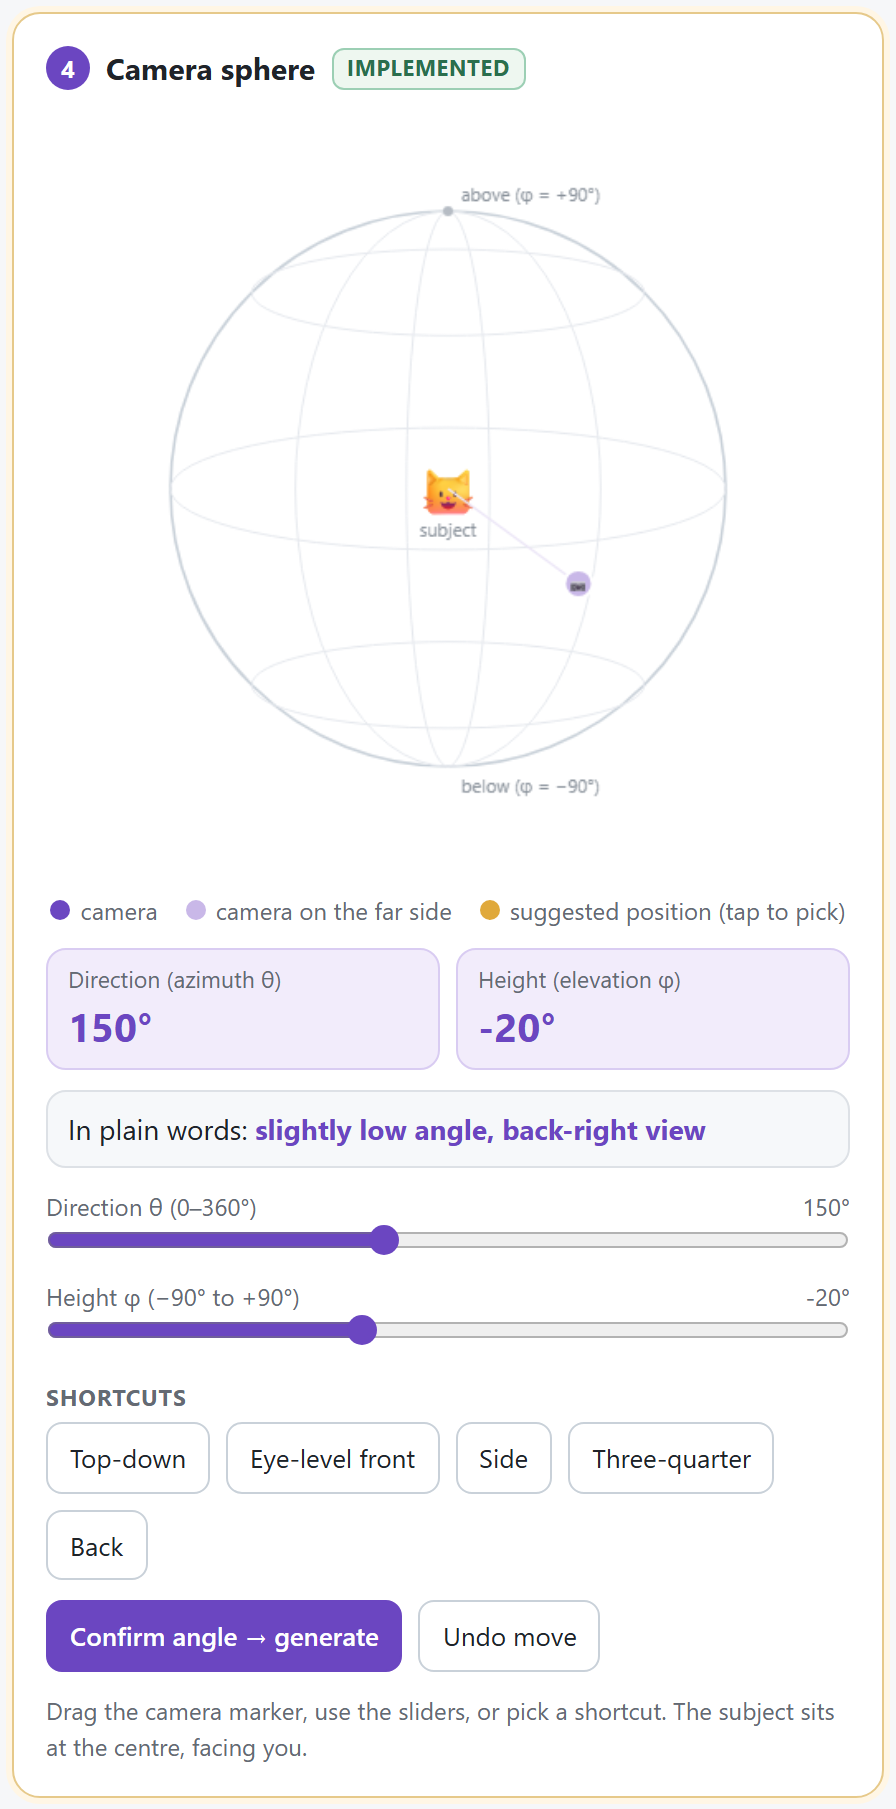
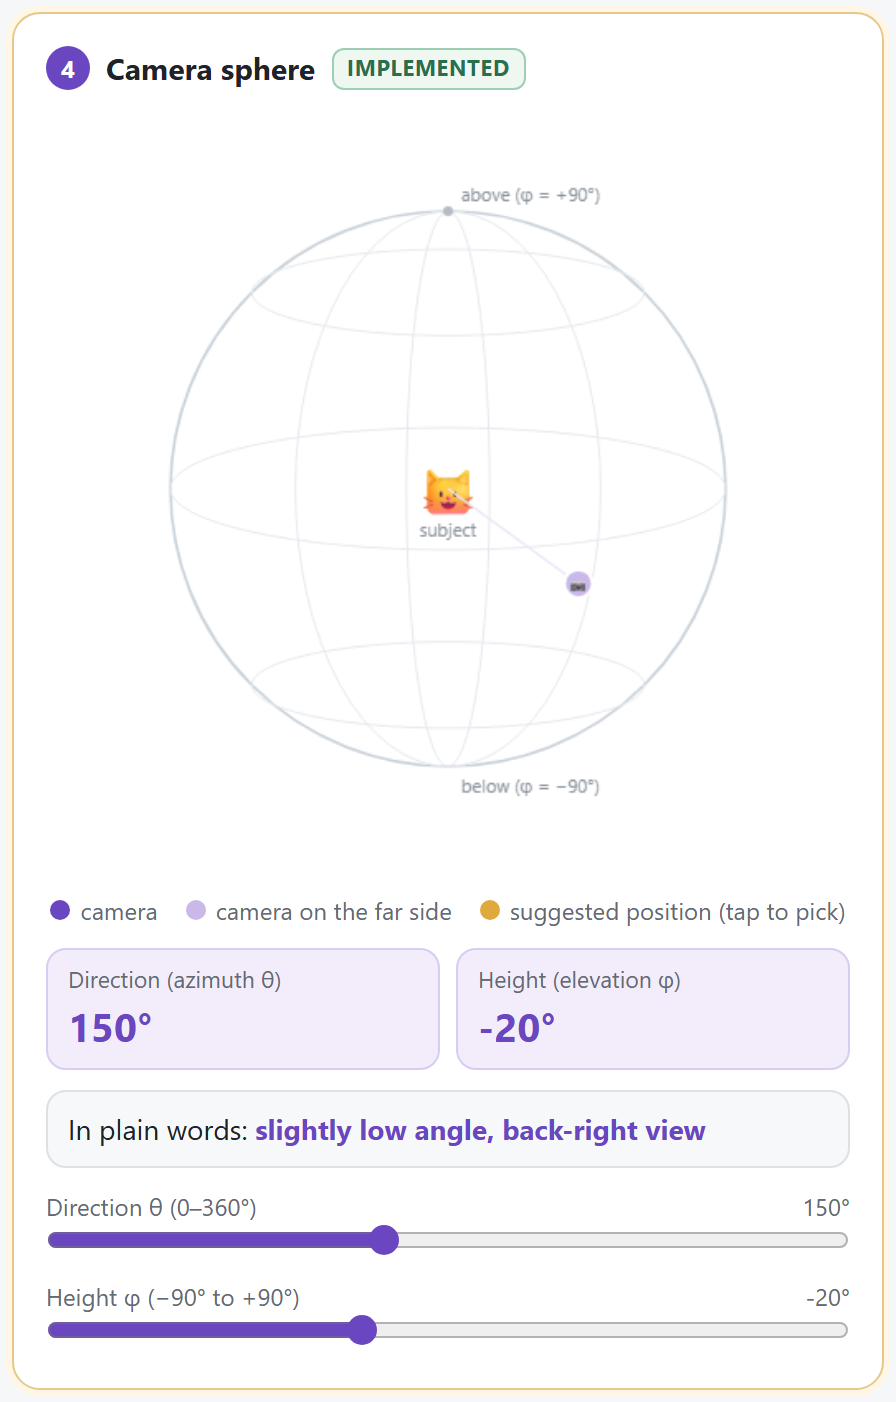
Trim: keep full sphere card only in storyboard B, shorten README self-review
B3 shows the Confirm button, which the "ask instead of guess" story
depends on. C3 returns to the shorter frame (sliders and numbers are the
evidence there). README self-review cut to three sentences.

diff --git a/README.md b/README.md
@@ -61,7 +61,7 @@ Work before 13 November 2026 was done outside Git and was imported in the first 
   - *Prompt reading and comparison made real* ([98f81b9](https://github.com/ShiSongLin6/viewpoint-assistant/commit/98f81b9)). In Lab 3 these steps were mocked. Rules were chosen over a language model so the behaviour is transparent, testable and runs without an API key. Unclear or conflicting phrases return suggestions, never an angle. Checked with unit tests (17 at the latest commit), including Lab 3 Tests A and B and a whole-word check ("triangle" is not "angle").
   - *Full interaction loop* ([05ebff9](https://github.com/ShiSongLin6/viewpoint-assistant/commit/05ebff9)). The sphere was embedded in a prompt → interpretation → result → correction loop with a version history. Generation and detection stay simulated so that interface behaviour can be examined separately from model accuracy. Suggestions were spread apart and kept visible while dragging, after the first layout made them overlap. Checked by walking examples A–C, the no-angle case, Undo and version switching in a browser.
   - *Storyboards and architecture diagram redrawn for this version.* The Lab 2 storyboards showed preset buttons and the Lab 3 path diagram still marked prompt reading and comparison as mocked; both were out of date. The three new storyboards use real screenshots of the prototype (A: wrong angle corrected, B: metaphor, C: precise angle), and every component in the diagram is marked implemented, simulated or planned to match the code.
-  - *Self-review against the A2 rubric (16 Nov).* Claude was asked to audit its own work. Problems found and fixed: a vague cue next to a clear word ("looking up from the ground, side view") was silently dropped and now asks; whole-word matching missed "45 degrees" and "top view"; the storyboard frames are cropped to the relevant cards, and the sphere frames that show a person's action now include the control used (the figure caption just says "screenshots"; the cropping is stated here); the architecture diagram said "unclear → suggestions" although a prompt with no angle has none. Found and left as a documented limit: the word-matching false positive above. Not yet covered by tests: the interface code (`app.js`), checked only by hand in a browser.
+  - *Self-review against the rubric (16 Nov).* Claude audited its own work: a vague cue next to a clear word is no longer dropped silently, "45 degrees" and "top view" are recognised, and the diagram labels match the code. Limits left as they are: word matching can misfire ("rear view mirror"), `app.js` has no unit tests, and the storyboard frames are cropped to the relevant cards.
   - TODO: my own review and changes.
 
 ## AI assistance
